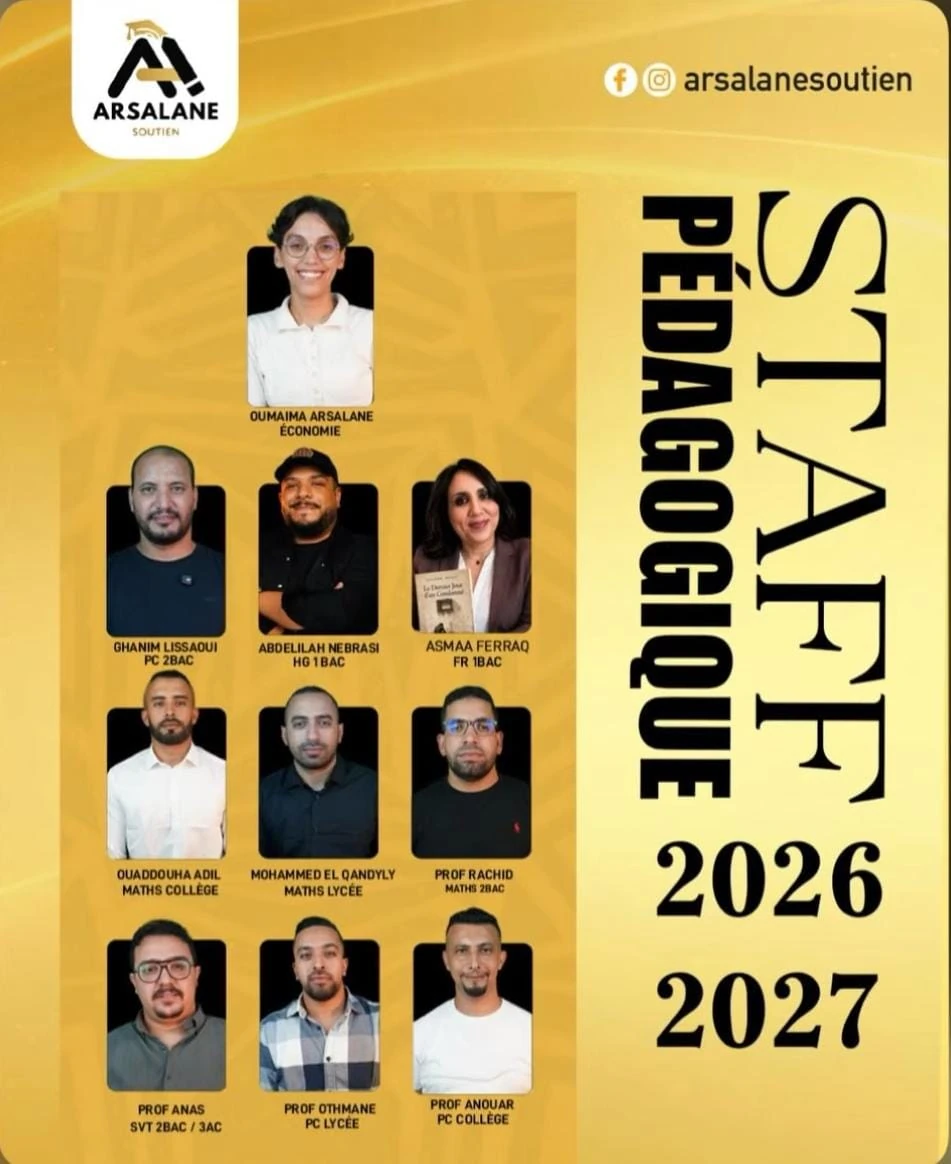
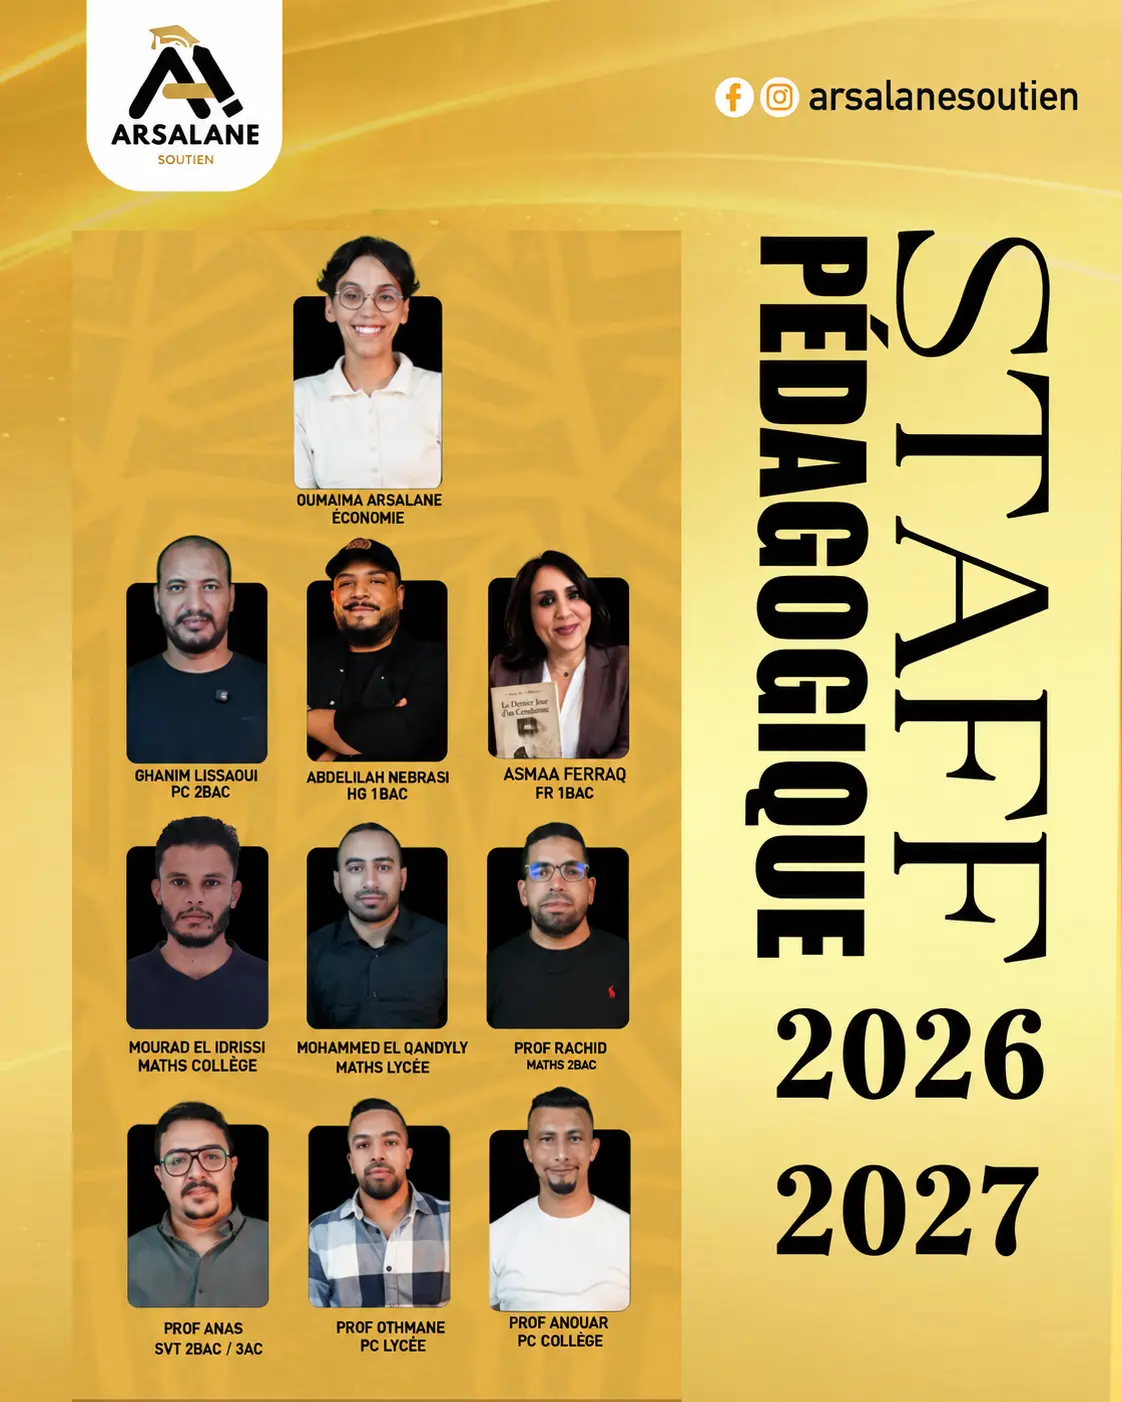
s

diff --git a/index.html b/index.html
@@ -116,41 +116,34 @@
         </div>
 
         <div class="schedule-table">
-          <button class="schedule-item" data-image="images/opt/edt_primaire_ce5.jpg" data-title="Primaire — 5e année">
+          <button class="schedule-item" data-image="images/opt/edt_primaire_ce5.webp" data-title="Primaire — 5e année">
             <span class="schedule-num">01</span><strong>Primaire</strong><span>5e année</span><b>↗</b>
           </button>
-          <button class="schedule-item" data-image="images/opt/edt_primaire_ce6.jpg" data-title="Primaire — 6e année">
+          <button class="schedule-item" data-image="images/opt/edt_primaire_ce6.webp" data-title="Primaire — 6e année">
             <span class="schedule-num">02</span><strong>Primaire</strong><span>6e année</span><b>↗</b>
           </button>
-          <button class="schedule-item" data-image="images/opt/edt_college_1ac.jpg" data-title="Collège — 1re année">
+          <button class="schedule-item" data-image="images/opt/edt_college_1ac.webp" data-title="Collège — 1re année">
             <span class="schedule-num">03</span><strong>Collège</strong><span>1re année</span><b>↗</b>
           </button>
-          <button class="schedule-item" data-image="images/opt/edt_college_2ac.jpg" data-title="Collège — 2e année">
+          <button class="schedule-item" data-image="images/opt/edt_college_2ac.webp" data-title="Collège — 2e année">
             <span class="schedule-num">04</span><strong>Collège</strong><span>2e année</span><b>↗</b>
           </button>
-          <button class="schedule-item" data-image="images/opt/edt_college_3ac.jpg" data-title="Collège — 3e année">
+          <button class="schedule-item" data-image="images/opt/edt_college_3ac.webp" data-title="Collège — 3e année">
             <span class="schedule-num">05</span><strong>Collège</strong><span>3e année</span><b>↗</b>
           </button>
-          <button class="schedule-item" data-image="images/opt/edt_lycee_tronc_commun.jpg" data-title="Lycée — Tronc commun">
+          <button class="schedule-item" data-image="images/opt/edt_lycee_tronc_commun.webp" data-title="Lycée — Tronc commun">
             <span class="schedule-num">06</span><strong>Lycée</strong><span>Tronc commun</span><b>↗</b>
           </button>
-          <button class="schedule-item" data-image="images/opt/edt_lycee_1bac.jpg" data-title="Lycée — 1re Bac">
+          <button class="schedule-item" data-image="images/opt/edt_lycee_1bac.webp" data-title="Lycée — 1re Bac">
             <span class="schedule-num">07</span><strong>Lycée</strong><span>1re Bac</span><b>↗</b>
           </button>
-          <button class="schedule-item" data-image="images/opt/edt_lycee_2bac_pcsvt.jpg" data-title="Lycée — 2e Bac PC / SVT">
+          <button class="schedule-item" data-image="images/opt/edt_lycee_2bac_pcsvt.webp" data-title="Lycée — 2e Bac PC / SVT">
             <span class="schedule-num">08</span><strong>Lycée</strong><span>2e Bac PC / SVT</span><b>↗</b>
           </button>
         </div>
       </div>
     </section>
 
-    <section class="photo-break" aria-label="Le centre Arsalane Soutien">
-      <div class="photo-break-label">UN ESPACE<br>POUR ÉTUDIER</div>
-      <picture>
-        <source srcset="images/opt/salle_reunion_wide.webp" type="image/webp">
-        <img src="images/opt/salle_reunion_wide.jpg" alt="Espace du centre Arsalane Soutien" loading="lazy">
-      </picture>
-    </section>
 
     <section class="approach section">
       <div class="section-index">04</div>
@@ -205,6 +198,9 @@
             <a href="tel:+212708300484">07 08 30 04 84</a>
             <a href="tel:+212708602400">07 08 60 24 00</a>
           </div>
+          <div class="map-embed">
+            <iframe src="https://www.google.com/maps?q=33.2304375,-8.5190625&amp;hl=fr&amp;z=16&amp;output=embed" title="Localisation d'Arsalane Soutien sur Google Maps" loading="lazy" referrerpolicy="no-referrer-when-downgrade"></iframe>
+          </div>
           <a class="map-link" href="https://www.google.com/maps?q=33.2304375,-8.5190625" target="_blank" rel="noopener">Ouvrir dans Google Maps <span>↗</span></a>
         </div>
         <div class="contact-side">
@@ -229,11 +225,10 @@
     <div class="footer-bottom">
       <span>© <span id="year"></span> Arsalane Soutien</span>
       <span>Hay Al Matar · El Jadida</span>
-      <span>Site par Yasser Mansour</span>
     </div>
   </footer>
 
-  <div class="lightbox" id="lightbox" aria-hidden="true">
+  <div class="lightbox" id="lightbox" role="dialog" aria-modal="true" aria-labelledby="lightbox-title" aria-hidden="true">
     <div class="lightbox-bar">
       <span id="lightbox-title"></span>
       <button id="lightbox-close" aria-label="Fermer">Fermer <b>×</b></button>

diff --git a/js/main.js b/js/main.js
@@ -205,71 +205,48 @@
   }
 
   /* ---- Emploi du temps : visionneuse (lightbox) ---------------- */
-  var edtButtons = Array.prototype.slice.call(document.querySelectorAll(".edt__item"));
-  var lightbox = document.getElementById("edt-lightbox");
+  var scheduleButtons = Array.prototype.slice.call(document.querySelectorAll(".schedule-item"));
+  var lightbox = document.getElementById("lightbox");
 
-  if (edtButtons.length && lightbox) {
-    var edtItems = edtButtons.map(function (btn) {
-      var img = btn.querySelector("img");
-      return { src: img.currentSrc || img.src, alt: img.getAttribute("alt"), cap: btn.querySelector(".edt__cap").textContent };
-    });
-    var lbImg = document.getElementById("edt-lightbox-img");
-    var lbCap = document.getElementById("edt-lightbox-cap");
-    var lbCount = document.getElementById("edt-lightbox-count");
-    var closeBtn = lightbox.querySelector("[data-edt-close]");
-    var prevBtn = lightbox.querySelector("[data-edt-prev]");
-    var nextBtn = lightbox.querySelector("[data-edt-next]");
-    var current = 0;
+  if (scheduleButtons.length && lightbox) {
+    var lightboxImg = document.getElementById("lightbox-img");
+    var lightboxTitle = document.getElementById("lightbox-title");
+    var closeBtn = document.getElementById("lightbox-close");
     var opener = null;
 
-    function render() {
-      var item = edtItems[current];
-      lbImg.src = item.src;
-      lbImg.alt = item.alt;
-      lbCap.textContent = item.cap;
-      lbCount.textContent = (current + 1) + " / " + edtItems.length;
-    }
-    function openAt(index) {
-      current = index;
-      opener = edtButtons[index];
-      render();
-      lightbox.hidden = false;
+    function openLightbox(button) {
+      opener = button;
+      lightboxImg.src = button.dataset.image;
+      lightboxImg.alt = button.dataset.title;
+      lightboxTitle.textContent = button.dataset.title;
+      lightbox.classList.add("open");
+      lightbox.setAttribute("aria-hidden", "false");
       document.body.style.overflow = "hidden";
-      document.addEventListener("keydown", onKeydown);
       closeBtn.focus();
     }
+
     function closeLightbox() {
-      lightbox.hidden = true;
+      lightbox.classList.remove("open");
+      lightbox.setAttribute("aria-hidden", "true");
       document.body.style.overflow = "";
-      document.removeEventListener("keydown", onKeydown);
       if (opener) opener.focus();
     }
-    function step(delta) {
-      current = (current + delta + edtItems.length) % edtItems.length;
-      render();
-    }
-    function onKeydown(e) {
-      if (e.key === "Escape") { closeLightbox(); }
-      else if (e.key === "ArrowLeft") { step(-1); }
-      else if (e.key === "ArrowRight") { step(1); }
-      else if (e.key === "Tab") {
-        // boucle du focus entre les trois contrôles de la visionneuse
-        var focusables = [prevBtn, nextBtn, closeBtn];
-        var idx = focusables.indexOf(document.activeElement);
-        e.preventDefault();
-        var next = e.shiftKey ? (idx <= 0 ? focusables.length - 1 : idx - 1) : (idx === focusables.length - 1 ? 0 : idx + 1);
-        focusables[next < 0 ? 0 : next].focus();
-      }
-    }
 
-    edtButtons.forEach(function (btn, i) {
-      btn.addEventListener("click", function () { openAt(i); });
+    scheduleButtons.forEach(function (button) {
+      button.setAttribute("aria-haspopup", "dialog");
+      button.addEventListener("click", function () { openLightbox(button); });
     });
+
     closeBtn.addEventListener("click", closeLightbox);
-    prevBtn.addEventListener("click", function () { step(-1); });
-    nextBtn.addEventListener("click", function () { step(1); });
-    lightbox.addEventListener("click", function (e) {
-      if (e.target === lightbox) closeLightbox();
+    lightbox.addEventListener("click", function (event) {
+      if (event.target === lightbox || event.target.classList.contains("lightbox-image")) {
+        closeLightbox();
+      }
+    });
+    document.addEventListener("keydown", function (event) {
+      if (event.key === "Escape" && lightbox.classList.contains("open")) {
+        closeLightbox();
+      }
     });
   }
 })();
